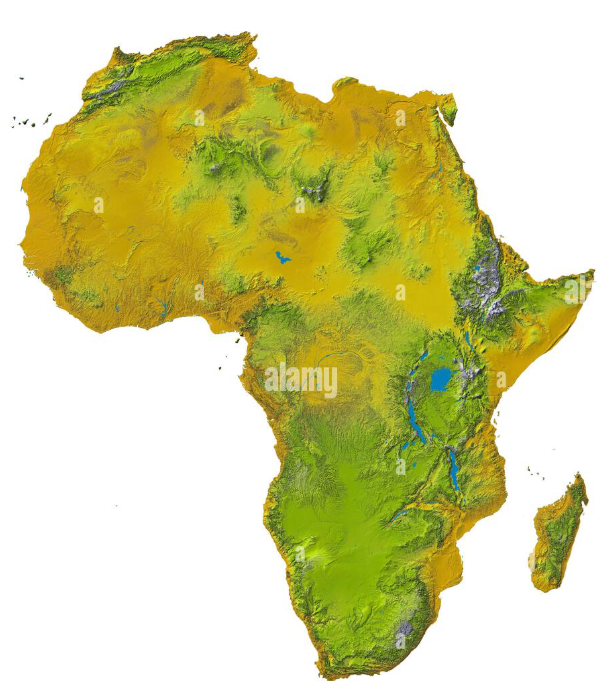
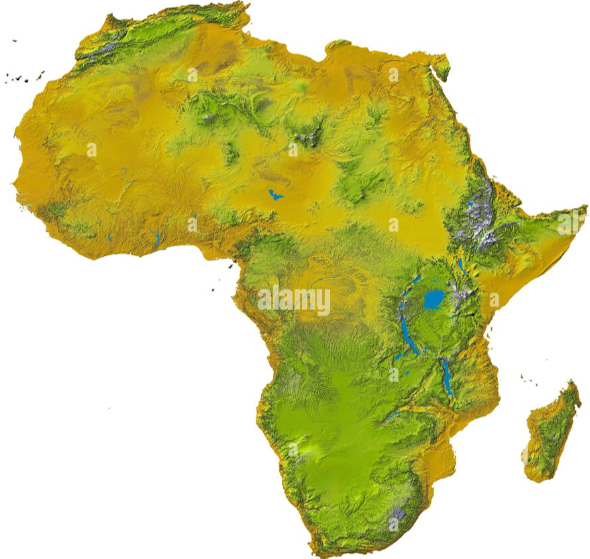
test image

diff --git a/lib/screens/test_fond_image.dart b/lib/screens/test_fond_image.dart
@@ -7,6 +7,7 @@ import 'package:flutter/material.dart';
 import 'package:flutter/services.dart';
 
 /// Écran de test pour superposer un fond de relief avec les frontières des pays d'Afrique
+/// et afficher dynamiquement les dimensions de la bbox géographique
 class TestFondImageScreen extends StatefulWidget {
   const TestFondImageScreen({Key? key}) : super(key: key);
 
@@ -17,6 +18,8 @@ class TestFondImageScreen extends StatefulWidget {
 class _TestFondImageScreenState extends State<TestFondImageScreen> {
   ui.Image? _backgroundImage;
   Map<String, dynamic>? _countriesJson;
+  double? _geoWidth;
+  double? _geoHeight;
 
   @override
   void initState() {
@@ -25,7 +28,7 @@ class _TestFondImageScreenState extends State<TestFondImageScreen> {
     _loadCountriesGeoJson();
   }
 
-  /// Charge l'image de relief "relief.png" depuis les assets
+  /// Charge l'image de relief et stocke dans _backgroundImage
   Future<void> _loadBackgroundImage() async {
     final data = await rootBundle.load('assets/relief.png');
     final bytes = Uint8List.view(data.buffer);
@@ -34,34 +37,80 @@ class _TestFondImageScreenState extends State<TestFondImageScreen> {
     setState(() => _backgroundImage = frame.image);
   }
 
-  /// Charge le GeoJSON des pays d'Afrique depuis "assets/maps/af.geojson"
+  /// Charge le GeoJSON et calcule la bbox (geoWidth, geoHeight)
   Future<void> _loadCountriesGeoJson() async {
     final jsonStr = await rootBundle.loadString('assets/maps/af.geojson');
-    setState(() => _countriesJson = json.decode(jsonStr) as Map<String, dynamic>);
+    final geo = json.decode(jsonStr) as Map<String, dynamic>;
+
+    // Calcul de la bounding box
+    double minX = double.infinity, minY = double.infinity;
+    double maxX = -double.infinity, maxY = -double.infinity;
+    for (final feature in geo['features'] as List) {
+      final geom = feature['geometry'];
+      Iterable rings;
+      if (geom['type'] == 'Polygon') {
+        rings = (geom['coordinates'] as List).cast<List<dynamic>>();
+      } else {
+        rings = (geom['coordinates'] as List)
+            .expand((poly) => (poly as List).cast<List<dynamic>>());
+      }
+      for (final ring in rings) {
+        for (final pt in ring) {
+          final x = (pt[0] as num).toDouble();
+          final y = (pt[1] as num).toDouble();
+          if (x < minX) minX = x;
+          if (y < minY) minY = y;
+          if (x > maxX) maxX = x;
+          if (y > maxY) maxY = y;
+        }
+      }
+    }
+    final width = maxX - minX;
+    final height = maxY - minY;
+
+    debugPrint('🌍 geoWidth = $width   geoHeight = $height');
+
+    setState(() {
+      _countriesJson = geo;
+      _geoWidth = width;
+      _geoHeight = height;
+    });
   }
 
   @override
   Widget build(BuildContext context) {
-    if (_backgroundImage == null || _countriesJson == null) {
-      return Scaffold(
-        appBar: AppBar(title: const Text('Test Fond & Map')),
-        body: const Center(child: CircularProgressIndicator()),
-      );
-    }
+    // Affiche la bbox avant de dessiner si déjà calculée
     return Scaffold(
       appBar: AppBar(title: const Text('Test Fond & Map')),
-      body: CustomPaint(
-        size: MediaQuery.of(context).size,
-        painter: _FondMapPainter(
-          background: _backgroundImage!,
-          countriesJson: _countriesJson!,
-        ),
+      body: _backgroundImage == null || _countriesJson == null
+          ? const Center(child: CircularProgressIndicator())
+          : Column(
+        children: [
+          if (_geoWidth != null && _geoHeight != null)
+            Padding(
+              padding: const EdgeInsets.all(8.0),
+              child: Text(
+                'geoWidth: ${_geoWidth!.toStringAsFixed(2)}, '
+                    'geoHeight: ${_geoHeight!.toStringAsFixed(2)}',
+                style: const TextStyle(fontSize: 16),
+              ),
+            ),
+          Expanded(
+            child: CustomPaint(
+              size: MediaQuery.of(context).size,
+              painter: _FondMapPainter(
+                background: _backgroundImage!,
+                countriesJson: _countriesJson!,
+              ),
+            ),
+          ),
+        ],
       ),
     );
   }
 }
 
-/// CustomPainter qui dessine le relief en fond et superpose les frontières des pays
+/// CustomPainter pour dessiner le relief et les frontières avec même transform
 class _FondMapPainter extends CustomPainter {
   final ui.Image background;
   final Map<String, dynamic> countriesJson;
@@ -74,112 +123,75 @@ class _FondMapPainter extends CustomPainter {
   @override
   void paint(Canvas canvas, Size size) {
     final paint = Paint();
-
-    // 1. Dessine l'image de fond réduite : 50% hauteur, 50% largeur,
-    //    centrée puis ajustée vers le haut et la gauche.
-    const horizontalOffsetFraction = 0.053; // déplace de 10% de la largeur vers la gauche
-    const verticalOffsetFraction = 0.11;   // déplace de 10% de la hauteur vers le haut
-
-    final imageWidth = background.width.toDouble();
-    final imageHeight = background.height.toDouble();
-    final dstWidth = imageWidth * 0.534;  // largeur à 50%
-    final dstHeight = imageHeight * 0.534; // hauteur à 50%
-
-    // Calcul pour centrer l'image réduite
-    double dxBg = (size.width - dstWidth) / 2;
-    double dyBg = (size.height - dstHeight) / 2;
-    // Applique les offsets négatifs pour remonter et décaler à gauche
-    dxBg -= dstWidth * horizontalOffsetFraction;
-    dyBg -= dstHeight * verticalOffsetFraction;
-
-    final srcRect = Rect.fromLTWH(0, 0, imageWidth, imageHeight);
-    final dstRect = Rect.fromLTWH(dxBg, dyBg, dstWidth, dstHeight);
-    canvas.drawImageRect(background, srcRect, dstRect, paint);
-
-    // 2. Récupère tous les anneaux (rings) des géométries des pays
+    // Extraction des anneaux
     final rings = <List<dynamic>>[];
     for (final feature in countriesJson['features'] as List) {
       _collectRings(feature['geometry'], rings);
     }
-    if (rings.isEmpty) {
-      debugPrint('Aucun contour de pays trouvé');
-      return;
-    }
+    if (rings.isEmpty) return;
 
-    // 3. Calcule la bounding box (minX, minY, maxX, maxY)
+    // Calcul bbox
     double minX = double.infinity, minY = double.infinity;
     double maxX = -double.infinity, maxY = -double.infinity;
     for (final ring in rings) {
       for (final coord in ring) {
         final x = (coord[0] as num).toDouble();
         final y = (coord[1] as num).toDouble();
-        if (x < minX) minX = x;
-        if (y < minY) minY = y;
-        if (x > maxX) maxX = x;
-        if (y > maxY) maxY = y;
+        minX = x < minX ? x : minX;
+        minY = y < minY ? y : minY;
+        maxX = x > maxX ? x : maxX;
+        maxY = y > maxY ? y : maxY;
       }
     }
     final geoWidth = maxX - minX;
     final geoHeight = maxY - minY;
 
-    // 4. Calcule le scale (zoom) et la translation pour centrer la carte
+    // Scale & translate
     final scaleX = size.width / geoWidth;
     final scaleY = size.height / geoHeight;
     final scale = scaleX < scaleY ? scaleX : scaleY;
     final dx = (size.width - geoWidth * scale) / 2 - minX * scale;
     final dy = (size.height - geoHeight * scale) / 2 + maxY * scale;
-
-    // 5. Applique la translation et l’inversion de l’axe Y
     canvas.save();
     canvas.translate(dx, dy);
     canvas.scale(scale, -scale);
 
-    // 6. Prépare le Paint pour tracer les frontières
+    // Dessin du fond
+    final src = Rect.fromLTWH(0, 0, background.width.toDouble(), background.height.toDouble());
+    final dst = Rect.fromLTWH(minX, minY, geoWidth, geoHeight);
+    canvas.drawImageRect(background, src, dst, paint);
+
+    // Dessin contours
     final borderPaint = Paint()
       ..style = PaintingStyle.stroke
       ..color = Colors.grey.shade300
       ..strokeWidth = 1 / scale;
-
-    // 7. Trace chaque anneau pour dessiner les contours
     for (final ring in rings) {
       final path = Path();
-      bool first = true;
-      for (final coord in ring) {
-        final x = (coord[0] as num).toDouble();
-        final y = (coord[1] as num).toDouble();
-        if (first) {
-          path.moveTo(x, y);
-          first = false;
-        } else {
-          path.lineTo(x, y);
-        }
+      for (int i = 0; i < ring.length; i++) {
+        final x = (ring[i][0] as num).toDouble();
+        final y = (ring[i][1] as num).toDouble();
+        if (i == 0) path.moveTo(x, y);
+        else path.lineTo(x, y);
       }
       path.close();
       canvas.drawPath(path, borderPaint);
     }
-
     canvas.restore();
   }
 
-  /// Extrait les anneaux de polygones ou multipolygones
   void _collectRings(dynamic geom, List<List<dynamic>> rings) {
     final type = geom['type'] as String;
     final coords = geom['coordinates'];
     if (type == 'Polygon') {
-      for (final ring in coords as List) {
-        rings.add(ring as List<dynamic>);
-      }
+      for (final ring in coords as List) rings.add(ring as List<dynamic>);
     } else if (type == 'MultiPolygon') {
-      for (final poly in coords as List) {
-        for (final ring in poly as List) {
-          rings.add(ring as List<dynamic>);
-        }
-      }
+      for (final poly in coords as List)
+        for (final ring in poly as List) rings.add(ring as List<dynamic>);
     }
   }
 
   @override
-  bool shouldRepaint(covariant _FondMapPainter old) {
-    return old.background != background || old.countriesJson != countriesJson;
-  }
+  bool shouldRepaint(covariant _FondMapPainter old) =>
+      old.background != background || old.countriesJson != countriesJson;
 }
